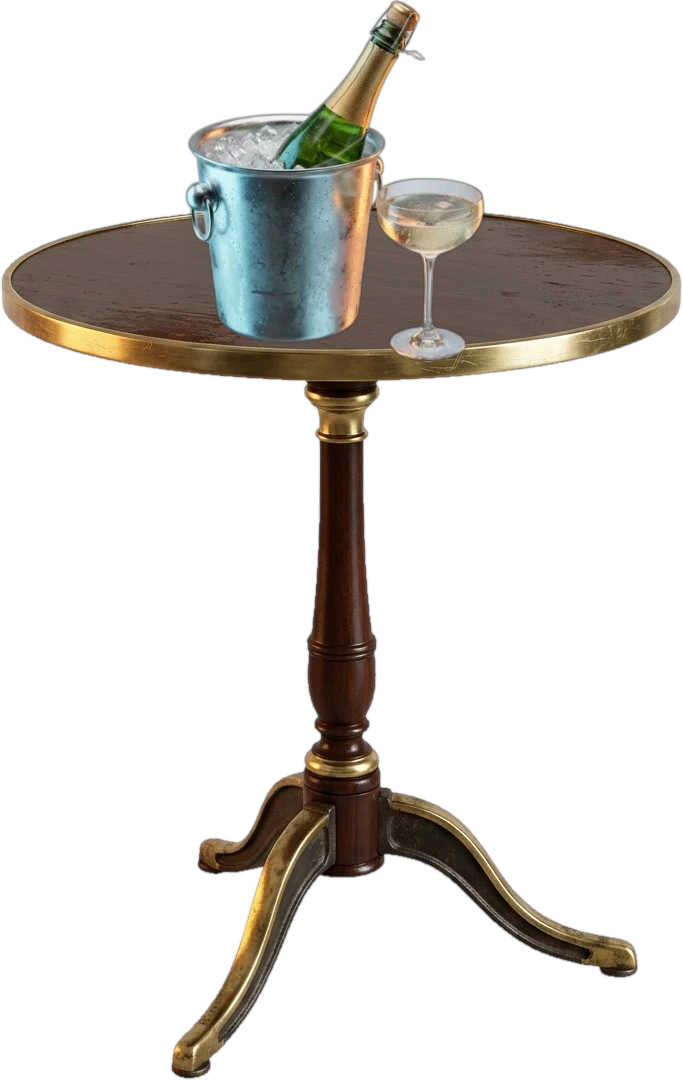
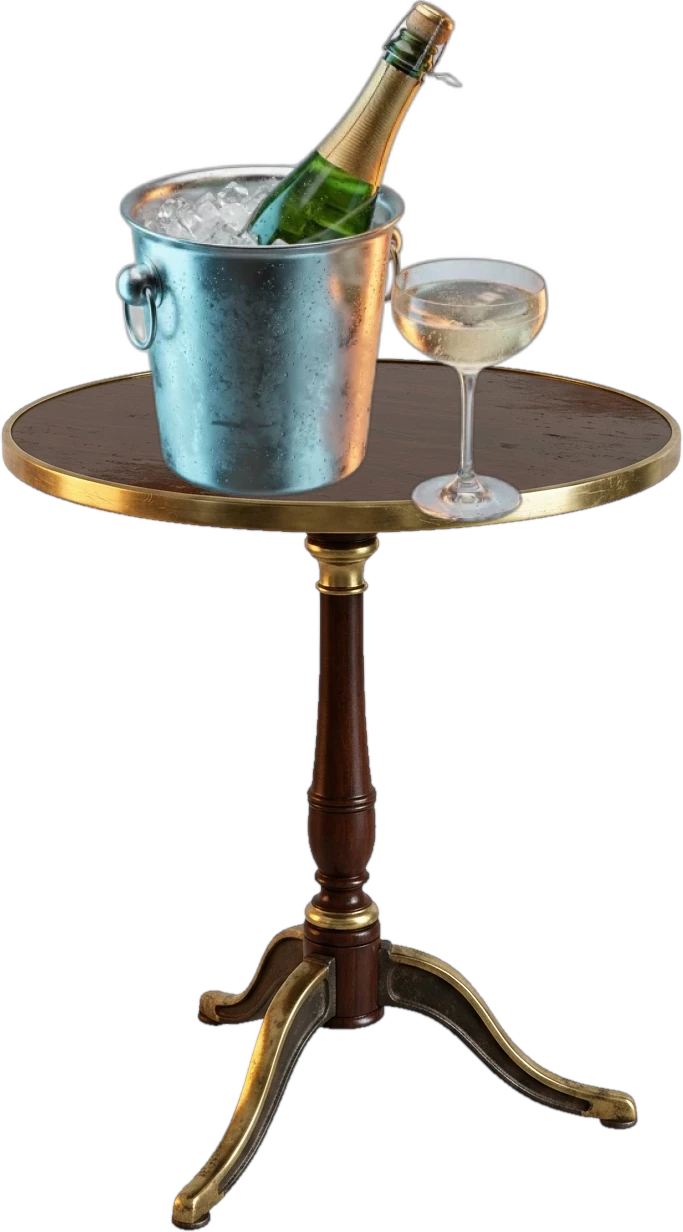
Q5: 샴페인 크게, 구명환은 계단 앞 기둥에 작게 걸고 호버 시 흔들림만, 망원경은 갑판 안쪽으로

diff --git a/frontend/src/components/question/DeckView.tsx b/frontend/src/components/question/DeckView.tsx
@@ -29,21 +29,21 @@ const WATER_Y = 503; // 고래가 솟는 수면
 
 interface Spot { x: number; y: number; w: number; h: number; ax: number; ay: number }
 const SPOTS: Record<string, Spot> = {
-  experience: { x: 560, y: 490, w: 140, h: 190, ax: 630, ay: 590 }, // 앞쪽 벤치 왼쪽 (샴페인)
+  experience: { x: 560, y: 470, w: 140, h: 210, ax: 630, ay: 600 }, // 앞쪽 벤치 왼쪽 (샴페인)
   stability: { x: 355, y: 485, w: 160, h: 175, ax: 430, ay: 585 }, // 앞쪽 벤치 오른쪽 (별자리 도감)
-  change: { x: 746, y: 450, w: 215, h: 270, ax: 836, ay: 610 }, // 난간 앞 갑판 (망원경)
+  change: { x: 745, y: 505, w: 170, h: 245, ax: 825, ay: 640 }, // 난간 앞 갑판 (망원경)
 };
 /**
  * 선택지 물건은 배경과 따로 그린 그림(투명 배경)이다. 그림이 아직 없으면 보이지 않고 빛과 눌리는 자리만 남는다.
  * foot: 물건이 바닥에 닿는 점(1376x768 기준), h: 높이.
  */
 const OBJECTS: Record<string, { src: string; foot: [number, number]; h: number; flip?: boolean }> = {
-  experience: { src: '/q5/obj_champagne.webp', foot: [630, 670], h: 190 },
+  experience: { src: '/q5/obj_champagne.webp', foot: [630, 670], h: 217 },
   stability: { src: '/q5/obj_atlas.webp', foot: [430, 655], h: 170 },
-  change: { src: '/q5/obj_telescope.webp', foot: [836, 706], h: 240, flip: true },
+  change: { src: '/q5/obj_telescope.webp', foot: [825, 740], h: 215, flip: true },
 };
-/** 난간에 걸린 구명환 (선택지가 아니라 챙길 수 있는 물건): 걸린 고리(위) 쪽이 아니라 아래 끝의 위치와 높이 */
-const BUOY = { foot: [1085, 668] as [number, number], h: 160 };
+/** 구명환 (선택지가 아니라 챙길 수 있는 물건): 계단 앞 하얀 기둥에 작게 걸려 있다. foot 은 아래 끝 */
+const BUOY = { foot: [503, 511] as [number, number], h: 54 };
 const ORDER = ['experience', 'stability', 'change'] as const;
 type Choice = (typeof ORDER)[number];
 
@@ -837,28 +837,23 @@ export default function DeckView({ question, onAnswer, onBack }: DeckViewProps) 
           );
         })}
         {/* 난간에 걸린 구명환: 눌러서 챙길 수 있다 (선택과는 별개) */}
-        <img
+        <motion.img
           src="/q5/obj_lifebuoy.webp"
           alt=""
           aria-hidden
           draggable={false}
           onError={(e) => { e.currentTarget.style.display = 'none'; }}
           className="pointer-events-none absolute max-w-none"
-          style={{
-            left: BUOY.foot[0], top: BUOY.foot[1], height: BUOY.h,
-            transform: `translate(-50%, -100%) rotate(${buoyHover ? 3 : 0}deg) scale(${buoy ? 0.6 : buoyHover ? 1.05 : 1})`,
-            transformOrigin: '50% 0%',
-            opacity: buoy ? 0 : 1,
-            transition: 'transform 0.5s, opacity 0.6s, filter 0.4s',
-            filter: buoyHover ? 'sepia(0.25) saturate(1.2) brightness(1.3) drop-shadow(0 0 12px rgba(255,214,140,0.6))' : 'sepia(0.25) saturate(1.15) brightness(0.98)',
-          }}
+          style={{ left: BUOY.foot[0], top: BUOY.foot[1], height: BUOY.h, translateX: '-50%', translateY: '-100%', transformOrigin: '50% 0%', filter: 'sepia(0.25) saturate(1.15) brightness(0.98)' }}
+          animate={{ rotate: buoy ? 0 : buoyHover ? [0, 6, -5, 3.5, -2, 0] : 0, scale: buoy ? 0.5 : 1, opacity: buoy ? 0 : 1 }}
+          transition={{ rotate: { duration: 1.3, ease: 'easeInOut' }, scale: { duration: 0.5 }, opacity: { duration: 0.6 } }}
         />
         {!buoy && (
           <button
             type="button"
             aria-label="난간에 걸린 구명환을 챙긴다"
-            className="absolute cursor-pointer rounded-2xl bg-transparent outline-none focus-visible:ring-2 focus-visible:ring-amber-300/80"
-            style={{ left: BUOY.foot[0] - 90, top: BUOY.foot[1] - BUOY.h - 10, width: 180, height: BUOY.h + 20 }}
+            className="absolute cursor-pointer bg-transparent outline-none focus-visible:ring-2 focus-visible:ring-amber-300/80"
+            style={{ left: BUOY.foot[0] - 34, top: BUOY.foot[1] - BUOY.h - 8, width: 68, height: BUOY.h + 16 }}
             onPointerEnter={(e) => { if (e.pointerType === 'mouse') setBuoyHover(true); }}
             onPointerLeave={() => setBuoyHover(false)}
             onFocus={() => setBuoyHover(true)}

diff --git a/tools/build_q5_props.py b/tools/build_q5_props.py
@@ -71,7 +71,7 @@ def main():
     print('탁자', w, h)
     ch = cv2.imread(os.path.join(SRC, 'champagne_only.webp'), cv2.IMREAD_UNCHANGED)
     # 양동이 지름이 윗판 너비의 약 20% 가 되도록 줄이고, 윗판 가운데보다 약간 왼쪽에 올린다
-    sc = (w * 0.29) / (ch.shape[1] * 0.66)
+    sc = (w * 0.42) / (ch.shape[1] * 0.66)
     ch = cv2.resize(ch, (int(ch.shape[1] * sc), int(ch.shape[0] * sc)), interpolation=cv2.INTER_AREA)
     # 윗판은 y 가 위에서 약 8%~28% 사이에 있다 (타원의 가운데 약 18%)
     top_c = int(h * 0.155)
